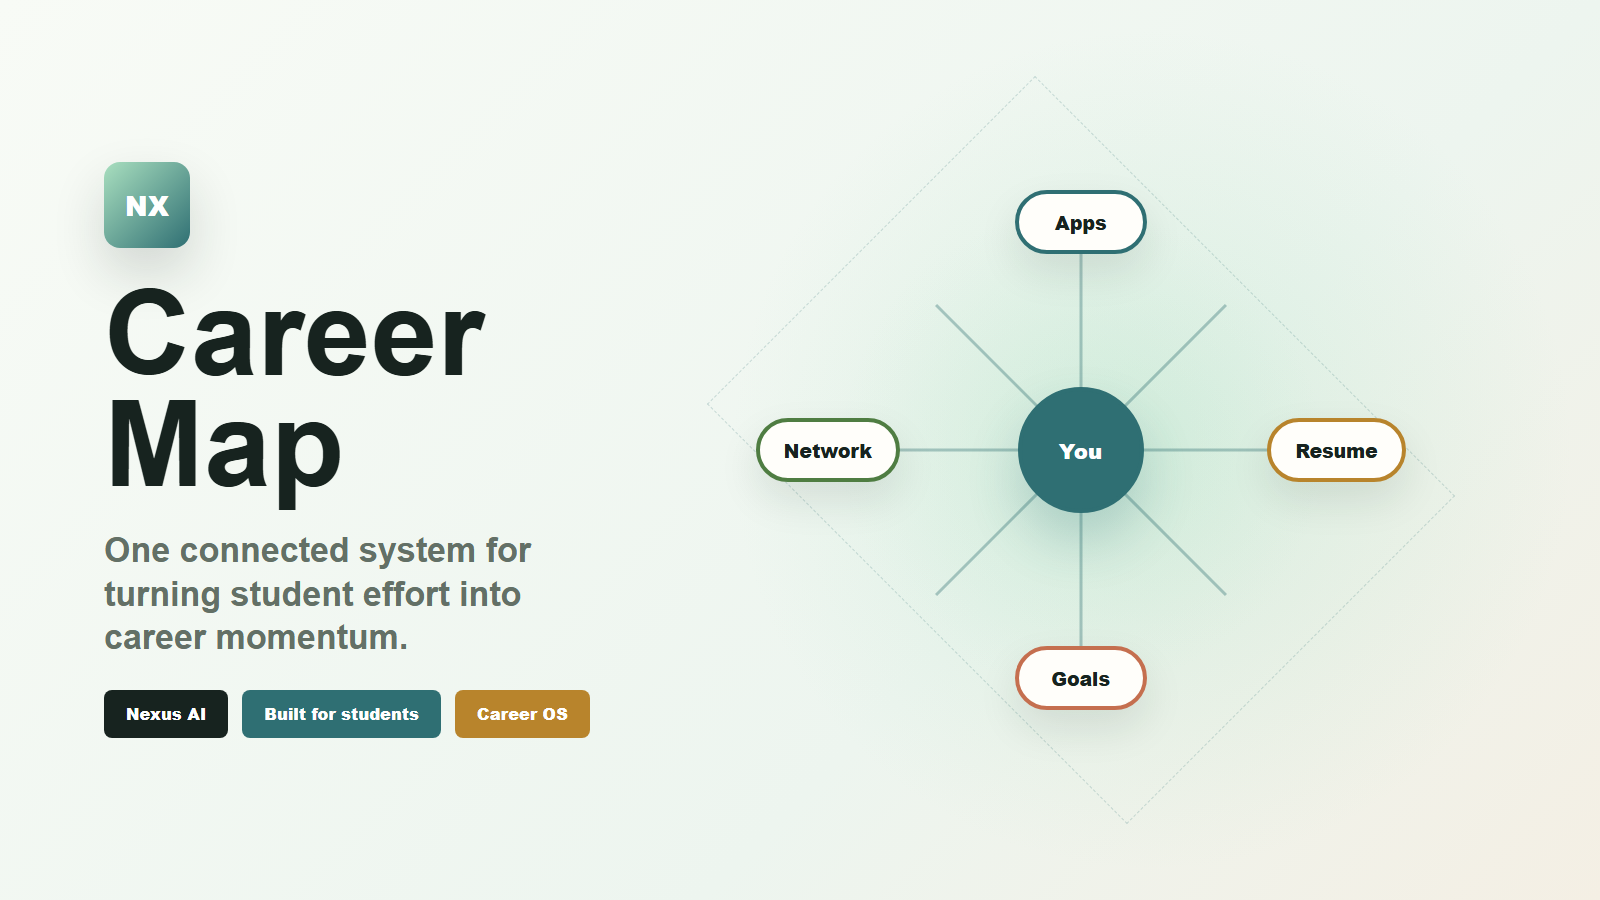
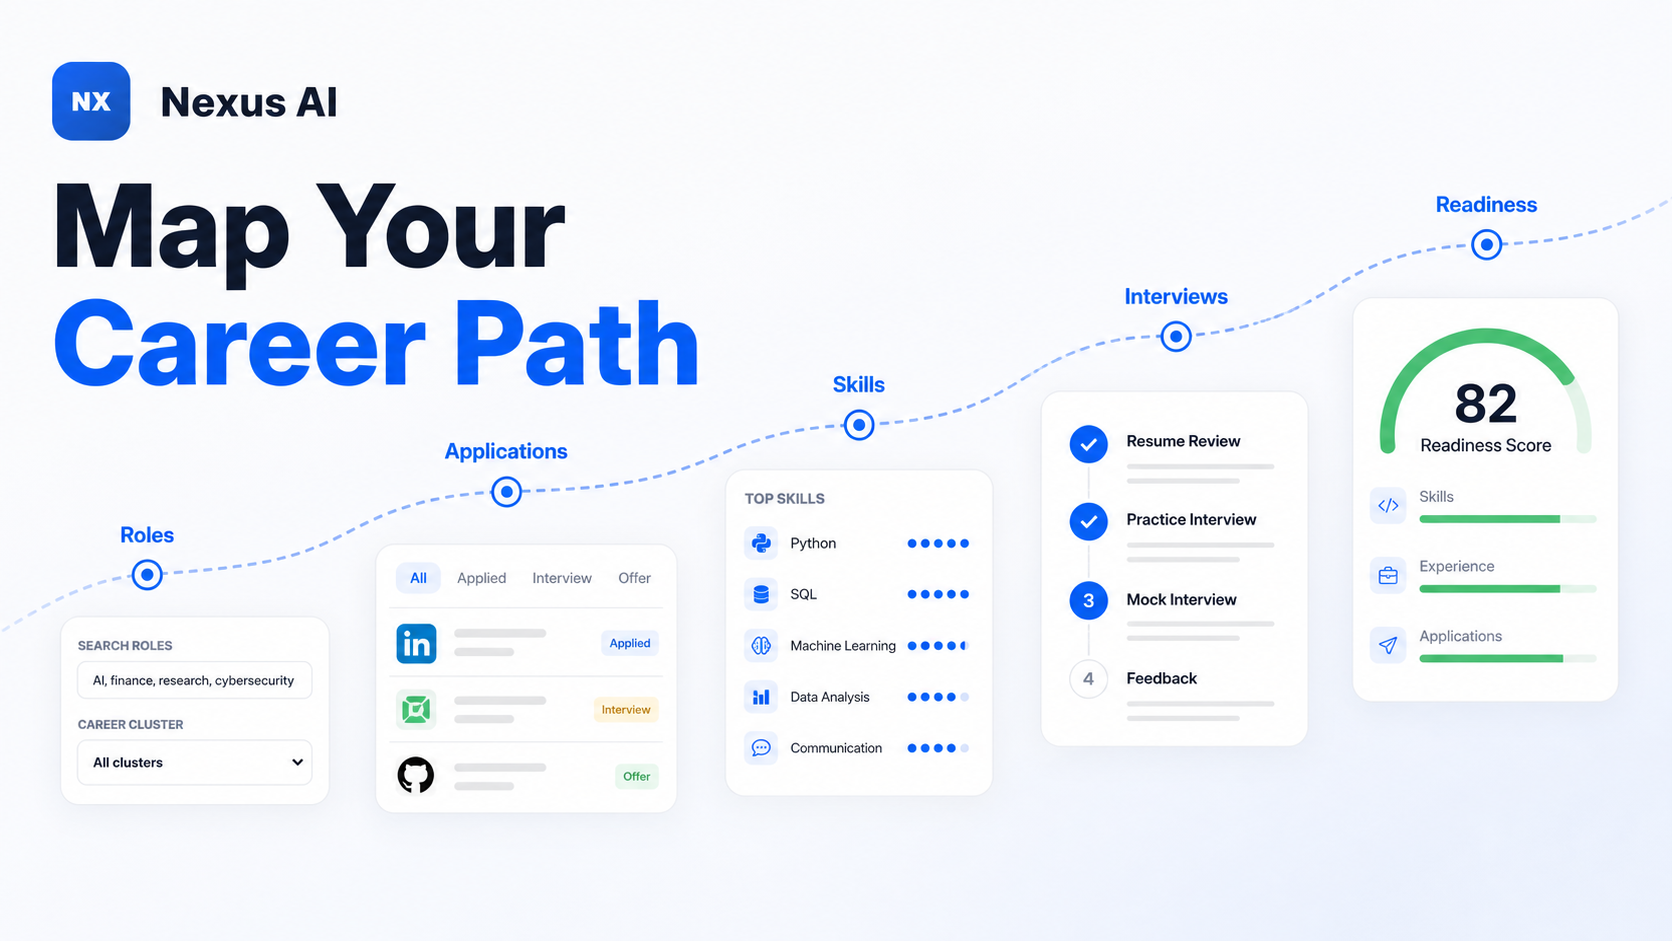
Update Nexus portfolio thumbnail

diff --git a/index.html b/index.html
@@ -90,7 +90,7 @@
           </div>
         </div>
         <div class="live-card">
-          <img src="assets/nexus-demo-poster.png" alt="Nexus AI dashboard preview">
+          <img src="assets/nexus-thumbnail.png?v=18" alt="Nexus AI career path thumbnail">
           <div>
             <span class="status-dot"></span>
             <p>Nexus AI is the flagship project: a career operating system with application tracking, resume coaching, skill gaps, and a hosted backend.</p>
@@ -127,7 +127,7 @@
 
       <div class="project-grid">
         <article class="project-card featured">
-          <img src="assets/nexus-thumbnail.png?v=17" alt="Nexus AI project thumbnail">
+          <img src="assets/nexus-thumbnail.png?v=18" alt="Nexus AI project thumbnail">
           <div class="project-content">
             <div class="project-badges" aria-label="Nexus AI project status">
               <span>Live</span>
